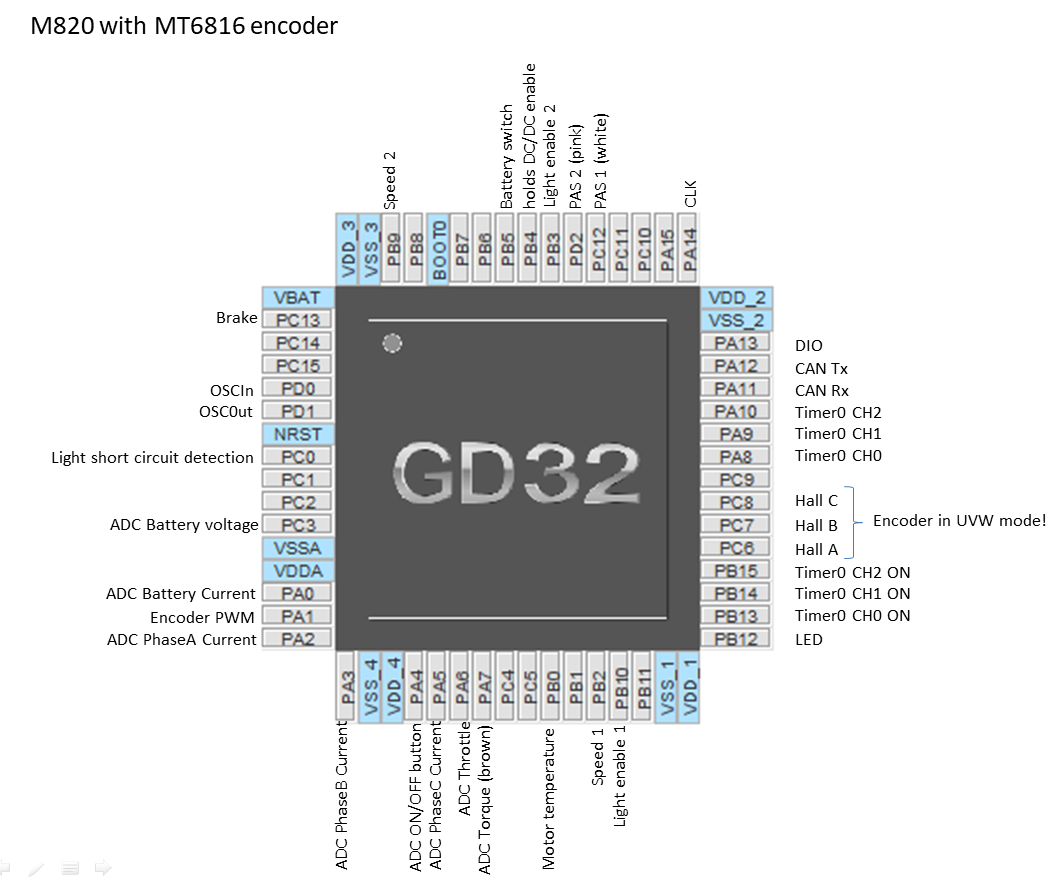
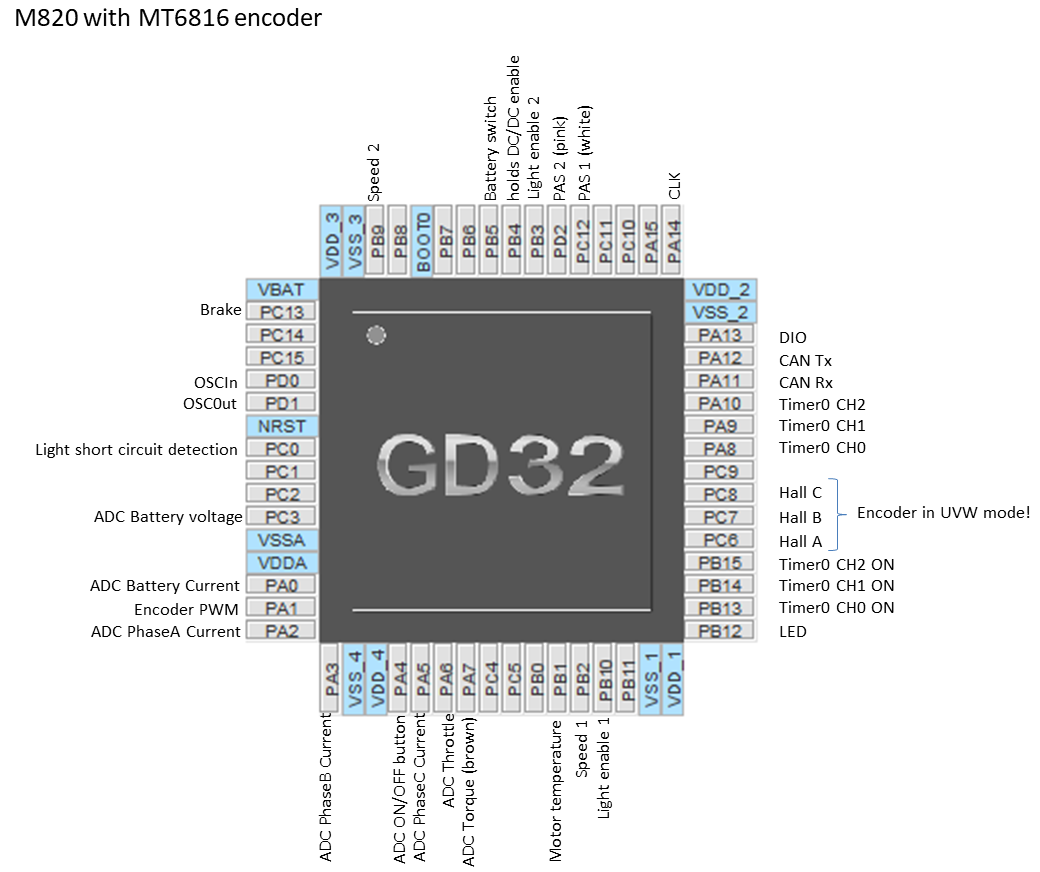
change temperature ADC channel to PB1

Changed region(s): [[0.0308, 0.0619, 0.9846, 0.9908], [0.0, 0.0, 0.3077, 0.0619]]

diff --git a/src/main.c b/src/main.c
@@ -590,7 +590,7 @@ void gpio_config(void)
     /* config the GPIO as analog mode */
     gpio_init(GPIOA, GPIO_MODE_AIN, GPIO_OSPEED_MAX, GPIO_PIN_0|GPIO_PIN_2|GPIO_PIN_3|GPIO_PIN_4|GPIO_PIN_5|GPIO_PIN_6|GPIO_PIN_7);
     gpio_init(GPIOC, GPIO_MODE_AIN, GPIO_OSPEED_MAX, GPIO_PIN_3|GPIO_PIN_4); //Battery Voltage
-    gpio_init(GPIOB, GPIO_MODE_AIN, GPIO_OSPEED_MAX, GPIO_PIN_0); // Motor Temp
+    gpio_init(GPIOB, GPIO_MODE_AIN, GPIO_OSPEED_MAX, GPIO_PIN_1); // Motor Temp
 
     gpio_init(GPIOB, GPIO_MODE_OUT_PP, GPIO_OSPEED_50MHZ, GPIO_PIN_3|GPIO_PIN_4|GPIO_PIN_5|GPIO_PIN_6|GPIO_PIN_12);
 
@@ -702,7 +702,7 @@ void adc_config(void)
     adc_regular_channel_config(ADC0, 3, ADC_CHANNEL_13, ADC_SAMPLETIME_239POINT5);// PC3 battery voltage
     adc_regular_channel_config(ADC0, 4, ADC_CHANNEL_5, ADC_SAMPLETIME_239POINT5); // Phase3 current
     adc_regular_channel_config(ADC0, 5, ADC_CHANNEL_4, ADC_SAMPLETIME_239POINT5); // on/off button
-    adc_regular_channel_config(ADC0, 6, ADC_CHANNEL_8, ADC_SAMPLETIME_239POINT5);//Motor temperature
+    adc_regular_channel_config(ADC0, 6, ADC_CHANNEL_9, ADC_SAMPLETIME_239POINT5);//Motor temperature
     adc_regular_channel_config(ADC0, 7, ADC_CHANNEL_2, ADC_SAMPLETIME_239POINT5);// Phase1 current
     adc_regular_channel_config(ADC0, 8, ADC_CHANNEL_3, ADC_SAMPLETIME_239POINT5);// Phase2 current
 
@@ -1235,10 +1235,12 @@ void reg_ADC_processing(void)
     if(Overrun_counter<64000)Overrun_counter++;
     MS.i_q_setpoint = update_setpoint();
     if (torque_counter>4000&&!Overrun_flag){ //reset after one second without torque on the pedal
-		Backwards_counter=0;
-		MS.cadence=0;
-		MS.p_human=0;
-		uint16_cadence_filtered=0;
+    	if (PAS_counter>MP.PAS_timeout){
+			Backwards_counter=0;
+			MS.cadence=0;
+			MS.p_human=0;
+			uint16_cadence_filtered=0;
+    	}
 		torque_cumulated=0;
 		if (!MS.i_q_setpoint){//reset integral part, if no power from throttle signal is wanted
 			PI_iq.integral_part=0;

diff --git a/inc/config.h b/inc/config.h
@@ -45,7 +45,7 @@
 //#define SPEEDTHROTTLE
 //#define PRINTDEBUG_UART
 #define PRINTDEBUG_CAN
-#define R_TEMP_PULLUP 3100
+#define R_TEMP_PULLUP 3500
 #define SIXSTEPTHRESHOLD 10000
 #define SPEED_PLL 0 //1 for using PLL, 0 for angle extrapolation
 #define P_FACTOR_PLL 10
